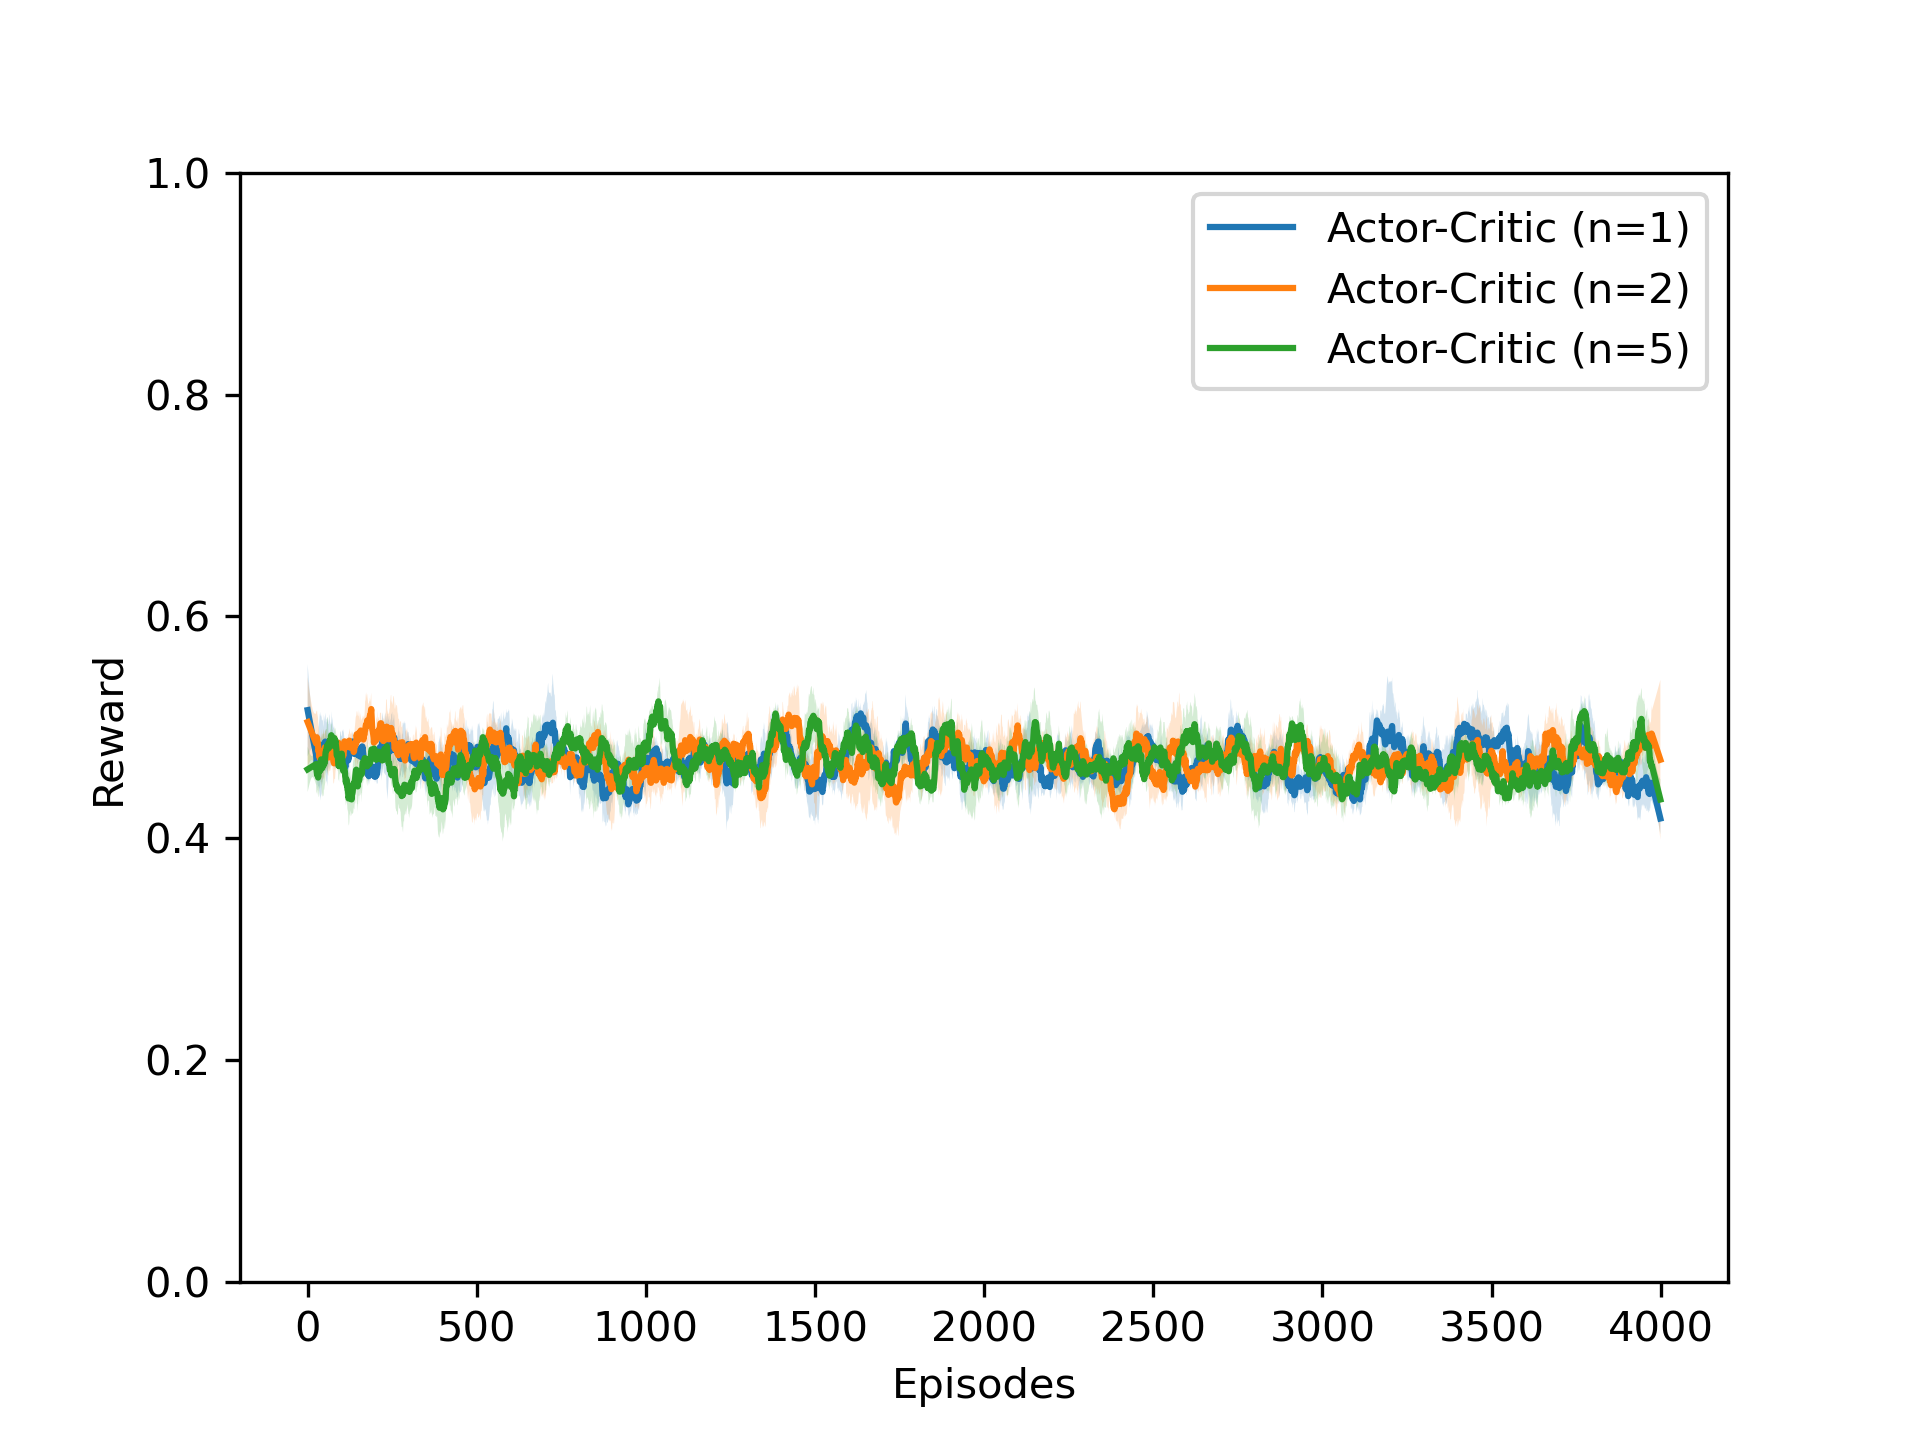
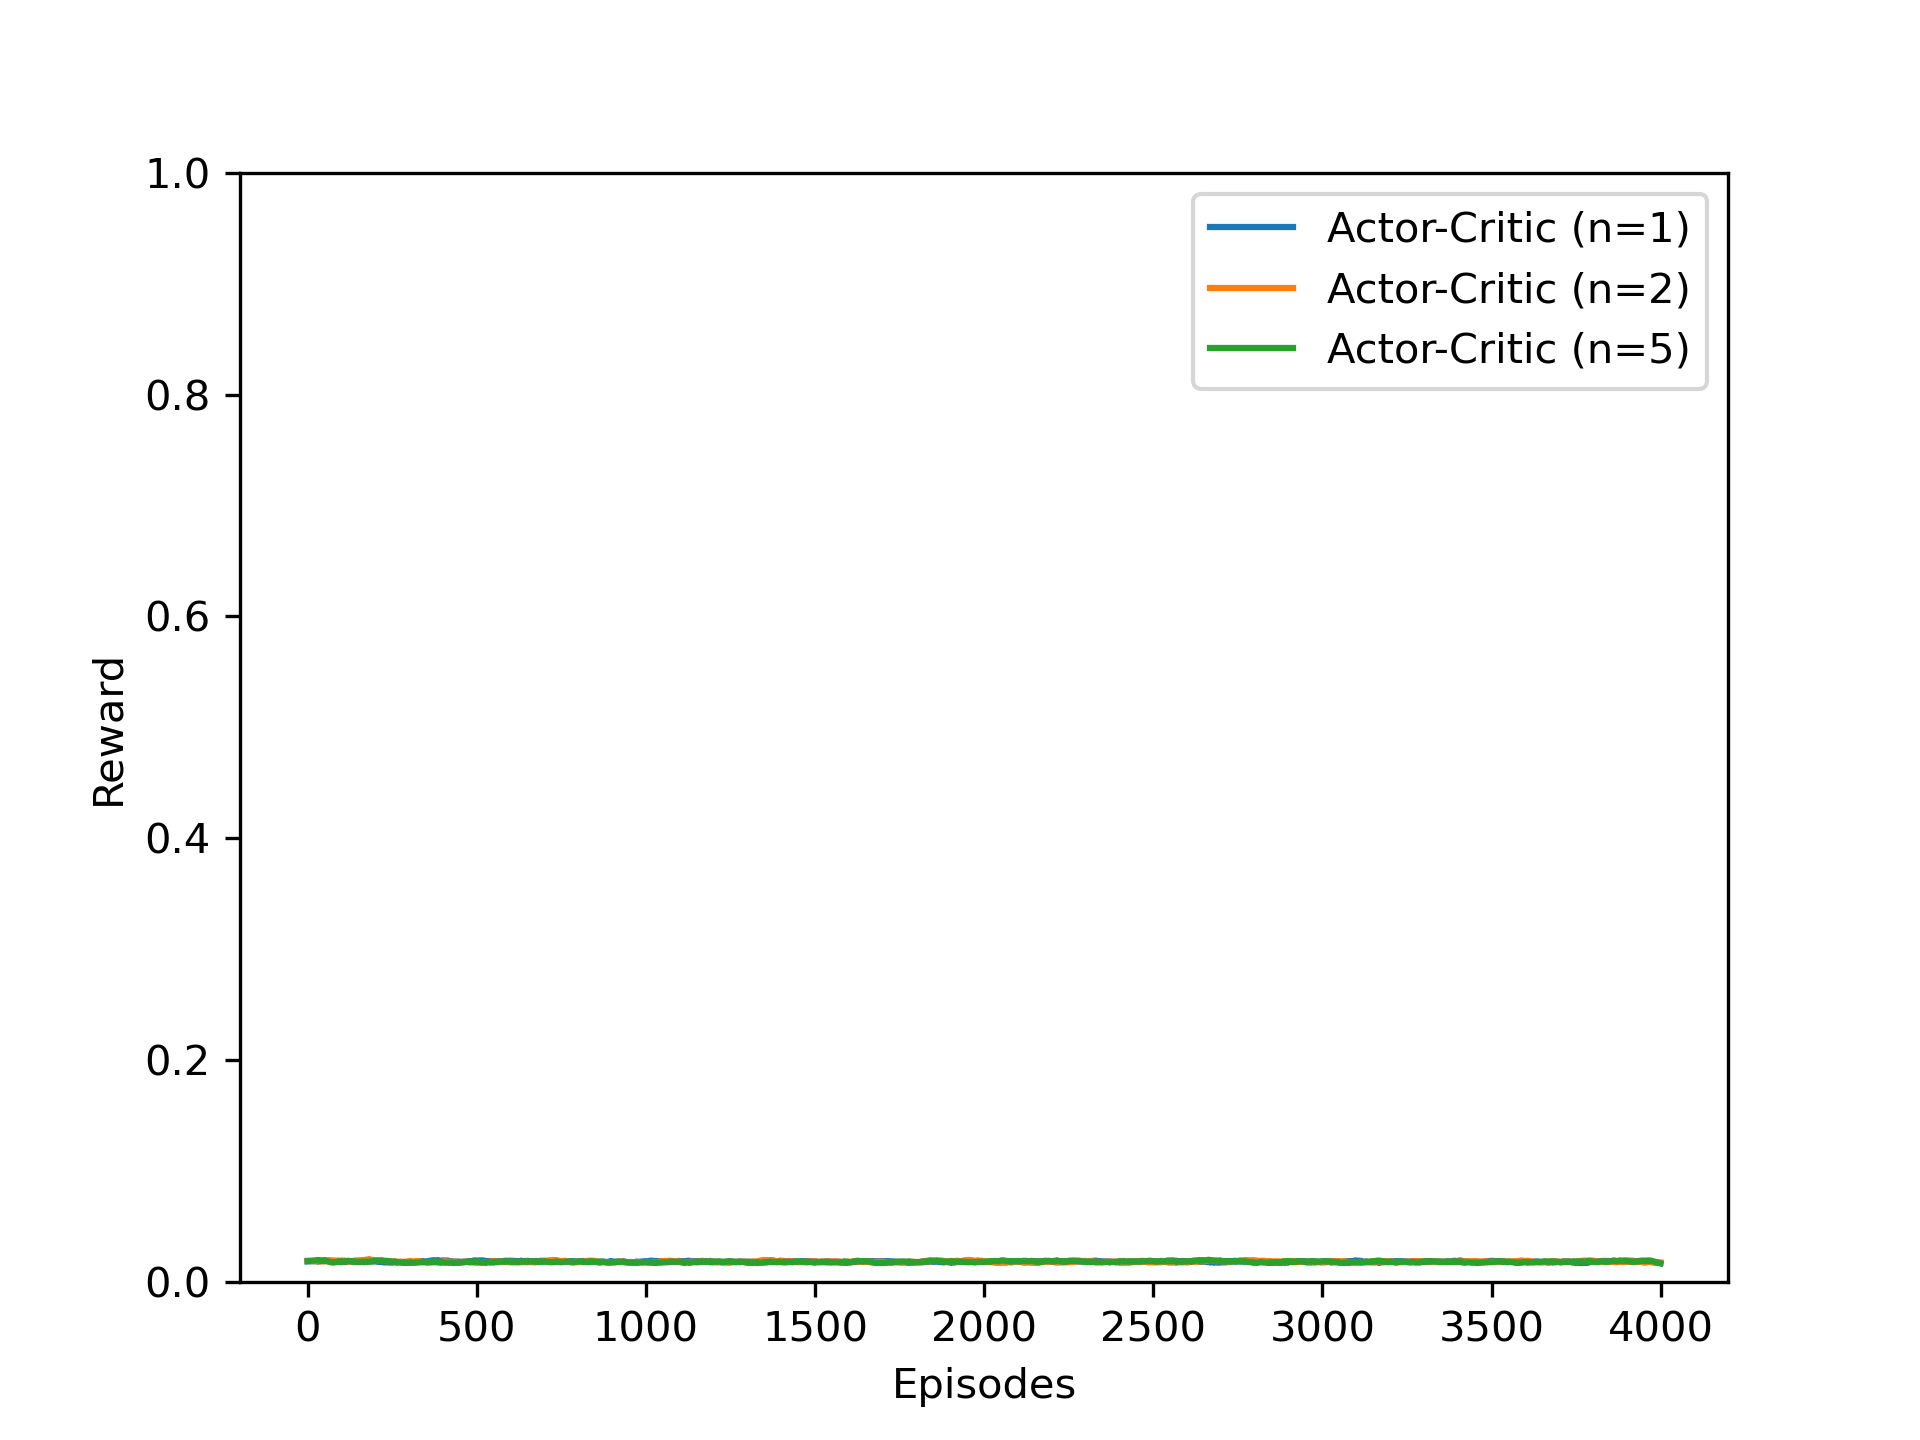
new experiment

Changed region(s): [[0.1562, 0.4688, 0.875, 0.5625], [0.1562, 0.875, 0.8438, 0.9062]]

diff --git a/experiments.py b/experiments.py
@@ -18,7 +18,7 @@ print("N_Steps: 1")
 results = []
 for run in range(n_runs):
     print(f"Run {run+1} of {n_runs}")
-    hyperparams_ac = HyperparamsActorCritic(entropy_reg=0.01, lr_actor=0.005, lr_critic=0.05, n_steps=1, batch_size=4, trace_length=10, 
+    hyperparams_ac = HyperparamsActorCritic(entropy_reg=0.01, lr_actor=0.005, lr_critic=0.05, n_steps=1, batch_size=4, trace_length=100, 
                                             bootstrap=True, baseline=True)
     ac = ActorCritic(env, hyperparams_ac, experiment_name=f"actor_critic_run_{run}")
     rewards = ac.train(n_epochs=1000)
@@ -30,7 +30,7 @@ print("N_Steps: 2")
 results = []
 for run in range(n_runs):
     print(f"Run {run+1} of {n_runs}")
-    hyperparams_ac = HyperparamsActorCritic(entropy_reg=0.01, lr_actor=0.005, lr_critic=0.05, n_steps=2, batch_size=4, trace_length=10,
+    hyperparams_ac = HyperparamsActorCritic(entropy_reg=0.01, lr_actor=0.005, lr_critic=0.05, n_steps=2, batch_size=4, trace_length=100,
                                             bootstrap=True, baseline=True)
     ac = ActorCritic(env, hyperparams_ac, experiment_name=f"actor_critic_run_{run}")
     rewards = ac.train(n_epochs=1000)
@@ -42,7 +42,7 @@ print("N_Steps: 5")
 results = []
 for run in range(3):
     print(f"Run {run+1} of {n_runs}")
-    hyperparams_ac = HyperparamsActorCritic(entropy_reg=0.01, lr_actor=0.005, lr_critic=0.05, n_steps=5, batch_size=4, trace_length=10,
+    hyperparams_ac = HyperparamsActorCritic(entropy_reg=0.01, lr_actor=0.005, lr_critic=0.05, n_steps=5, batch_size=4, trace_length=100,
                                             bootstrap=True, baseline=True)
     ac = ActorCritic(env, hyperparams_ac, experiment_name=f"actor_critic_run_{run}")
     rewards = ac.train(n_epochs=1000)
